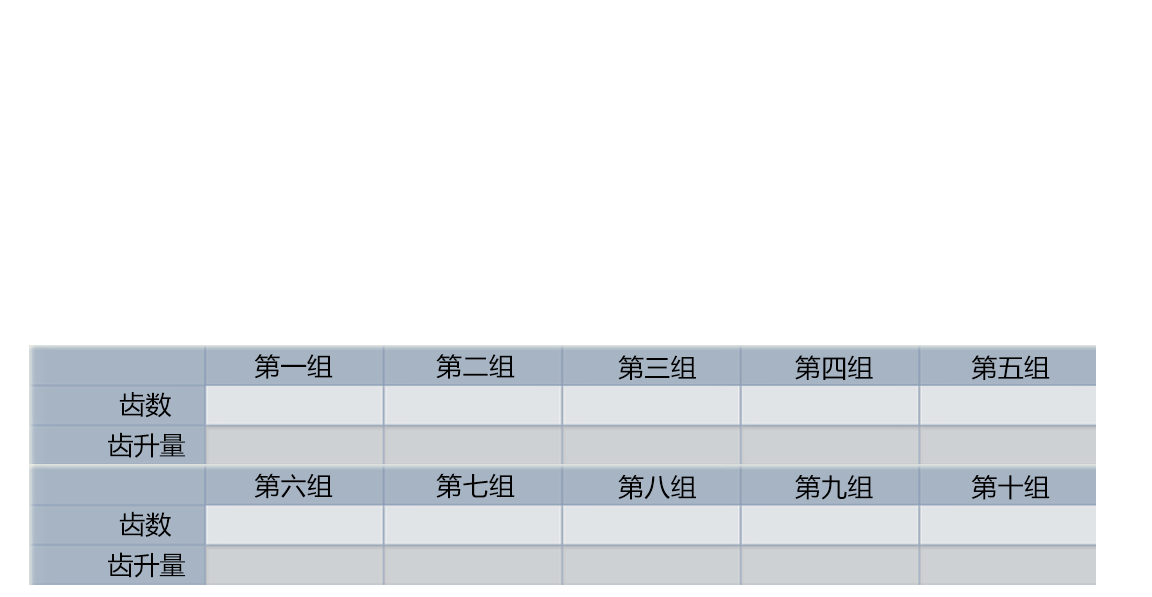
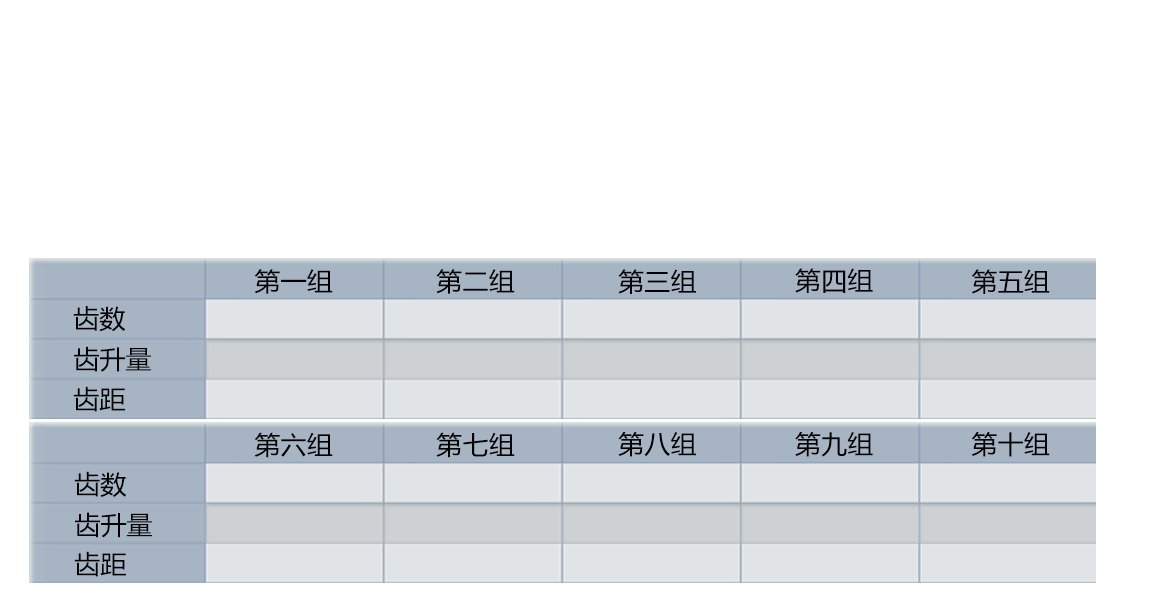
每组单独设置齿距

diff --git a/Parameter_Index.md b/Parameter_Index.md
@@ -1527,7 +1527,7 @@
 |LADAO[31]||齿形参数：后背角度
 |LADAO[32]||齿形参数：后背厚度
 |LADAO[33]||齿形参数：顶部后刃角度
-|LADAO[34]||齿形参数：齿距
+|LADAO[34]||齿形参数：当前齿齿距
 |LADAO[35]||齿形参数：齿高
 |LADAO[36]||测头半径
 |LADAO[37]||加工选择(0前刃、1齿形平磨，2齿顶后刃，3齿侧后刃,4后背,5齿两端平面,6吸铁台面,7内圆加工,8螺纹)
@@ -1650,7 +1650,7 @@
 |LADAO[154]||前滚压修整位X
 |LADAO[155]||后滚压修整位X
 |LADAO[156]||齿形程序存储位置(0内置/1后USB/2前USB)
-|LADAO[157]||
+|LADAO[157]||当前齿标准齿距累计(距离第一齿距离按标准齿距计算的距离)
 |LADAO[158]||
 |LADAO[159]||
 |LADAO[160]||修砂轮后是否不进刀加工一次(0否1是)
@@ -1794,6 +1794,16 @@
 |LADAO[298]||圆拉刀-通磨-通磨槽-c起始角调整
 |LADAO[299]||圆拉刀-铲背-c起始角调整
 |LADAO[300]||圆拉刀-铲背-偶数齿C轴偏置角
+|LADAO[301]||第1组齿距
+|LADAO[302]||第2组齿距
+|LADAO[303]||第3组齿距
+|LADAO[304]||第4组齿距
+|LADAO[305]||第5组齿距
+|LADAO[306]||第6组齿距
+|LADAO[307]||第7组齿距
+|LADAO[308]||第8组齿距
+|LADAO[309]||第9组齿距
+|LADAO[310]||第10组齿距
 |||
 |MEASURE_RESULT[0]||底面测量结果1
 |MEASURE_RESULT[149]||底面测量结果150
